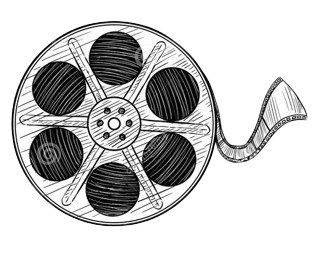
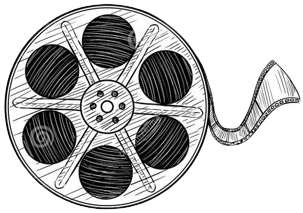
worked on project pages

diff --git a/styles/styles.css b/styles/styles.css
@@ -38,8 +38,63 @@ body {
     display: flex;
     flex-direction: column;
     justify-content: center;
+    
 
     padding-top: 35px;
+}
+
+/* @ SPECIFICS */
+
+.photo {
+    width: 500px;
+}
+
+.cls-1 {
+    fill: #fff;
+    fill-rule: evenodd;
+    width: 300px;
+}
+
+.h1 {
+    display: flex;
+    gap: 15px;
+    align-items: center;
+    justify-content: start;
+
+    width: 100%;
+    text-align: start;
+    /* padding: 15px; */
+    margin-bottom: 30px;
+
+    /* border: solid blue 2px; */
+}
+
+/* h1 {
+    color: var(--navy);
+
+} */
+
+
+
+/* @ FLEX CLASSES */
+
+.flex--row {
+    display: flex;
+    justify-content: center;
+    align-items: center;
+    gap: 15px;
+
+    /* border: solid aqua 2px; */
+    /* width: 100%; */
+
+
+}
+
+.flex--col {
+    display: flex;
+    flex-direction: column;
+    justify-content: start;
+    align-items: center;
 }
 
 /* @ COMPONTENTS */
@@ -91,6 +146,7 @@ body {
 main {
     display: flex;
     justify-content: center;
+    /* width: 100%; */
 
     margin: 50px 0 50px 0;
 
@@ -196,15 +252,74 @@ footer p, footer li {
     gap: 100px;
 }
 
+.projects {
+    width: 50%;
+    gap: 25px;
 
-/* SPECIFICS */
-
-.photo {
-    width: 500px;
+    /* border: solid blue 2px; */
 }
 
-.cls-1 {
-    fill: #fff;
-    fill-rule: evenodd;
-    width: 300px;
+.main--project {
+    /* border: solid 2px var(--light); */
+    padding: 30px;
+}
+
+.graphic {
+    width: 100%;
+    /* padding: 15px; */
+
+    /* border: solid purple 2px; */
+    
+}
+
+.graphic--alt {
+    width: 100%;
+    /* padding: 15px; */
+
+    /* border: solid purple 2px; */
+
+}
+
+
+.subtitle {
+    font-size: 30px;
+    width: 100%;
+    text-align: center;
+
+    /* border: solid green 2px; */
+}
+
+.main--writing {
+    width: 100%;
+
+    /* border: solid aqua 2px; */
+}
+
+.project__header {
+    width: 100%;
+    display: flex;
+    align-items: start;
+    justify-content: center;
+    gap: 50px;
+
+    /* border: teal solid 2px; */
+}
+
+.button {
+    width: 9%;
+    display: flex;
+    justify-content: center;
+
+    padding: 10px;
+    margin: 10px;
+    font-size: 20px;
+
+    border: solid 1px var(--mauve);
+    border-radius: 5px;
+
+    /* border: solid brown 2px; */
+}
+
+.button p {
+    color: var(--mauve);
 }

diff --git a/projects/index.html b/projects/index.html
@@ -1,0 +1,63 @@
+<!DOCTYPE html>
+<html lang="en">
+<head>
+    <meta charset="UTF-8">
+    <meta name="viewport" content="width=device-width, initial-scale=1.0">
+    <title>Document</title>
+    <link rel="stylesheet" href="../styles/styles.css">
+    <script src="https://kit.fontawesome.com/29d5866cff.js" crossorigin="anonymous"></script>
+</head>
+<body>
+    <header class="header">
+
+    </header>
+    <nav class="nav">
+        <ul class="nav__ul">
+            <a href="../"><li class="nav__li"><img src="../img/star.svg" alt="" width="30px"></i>Home</li></a>
+            <a href="../projects/" id="current"><li class="nav__li"><img src="../img/star.svg" alt="" width="30px"></i>Projects</li></a>
+            <a href="../photography/"><li class="nav__li"><img src="../img/star.svg" alt="" width="30px"></i>Photography</li></a>
+            <a href="../about-me/"><li class="nav__li"><img src="../img/star.svg" alt="" width="30px"></i>About Me</li></a>
+        </ul>
+    </nav>
+    <main class="flex--col main--project">
+
+        <div class="group--vertical h1">
+            <img src="../img/star.svg" alt="" width="100px">
+            <h1>Projects</h1>
+        </div>
+
+        <div class="group--vertical flex--row">
+
+            <div class="flex--col projects">
+
+                <a href="../projects/films/">
+                    <img src="../img/graphics/Film Reel.png" alt="" class="graphic--alt">
+                    <p class="subtitle">Films</p>
+                </a>
+                
+            </div>
+
+            <div class="flex--col">
+                <img src="../img/Projects Picture.jpg" class="photo" alt="">
+            </div>
+
+            <div class="flex--col projects">
+
+                <a href="../projects/writing/">
+                    <img src="../img/graphics/Pile of Letters.png" alt="" class="graphic--alt">
+                    <p class="subtitle">Writing</p>
+                </a>
+
+            </div>
+
+        </div>
+
+    </main>
+    <footer class="footer">
+   
+
+        
+
+    </footer>
+</body>
+</html>

diff --git a/projects/writing/index.html b/projects/writing/index.html
@@ -1,0 +1,44 @@
+<!DOCTYPE html>
+<html lang="en">
+<head>
+    <meta charset="UTF-8">
+    <meta name="viewport" content="width=device-width, initial-scale=1.0">
+    <title>Document</title>
+    <link rel="stylesheet" href="../../styles/styles.css">
+    <script src="https://kit.fontawesome.com/29d5866cff.js" crossorigin="anonymous"></script>
+</head>
+<body>
+    <header class="header">
+
+    </header>
+    <nav class="nav">
+        <ul class="nav__ul">
+            <a href="../../"><li class="nav__li"><img src="../../img/star.svg" alt="" width="30px"></i>Home</li></a>
+            <a href="../../projects/"><li class="nav__li"><img src="../../img/star.svg" alt="" width="30px"></i>Projects</li></a>
+            <a href="../../photography/"><li class="nav__li"><img src="../../img/star.svg" alt="" width="30px"></i>Photography</li></a>
+            <a href="../../about-me/"><li class="nav__li"><img src="../../img/star.svg" alt="" width="30px"></i>About Me</li></a>
+        </ul>
+    </nav>
+    <main class="flex--row main--writing">
+
+        <div class="project__header">
+            <a href="../../projects/" class="button"><p>← back</p></a>
+            
+            <div class="h1">
+                <img src="../../img/graphics/eye.png" alt="" width="80px">
+                <h1>Writing</h1>
+            </div>
+        </div>
+        
+        <div class="writing__group"></div>
+     
+
+    </main>
+    <footer class="footer">
+   
+
+        
+
+    </footer>
+</body>
+</html>

diff --git a/projects/films/index.html b/projects/films/index.html
@@ -1,0 +1,44 @@
+<!DOCTYPE html>
+<html lang="en">
+<head>
+    <meta charset="UTF-8">
+    <meta name="viewport" content="width=device-width, initial-scale=1.0">
+    <title>Document</title>
+    <link rel="stylesheet" href="../../styles/styles.css">
+    <script src="https://kit.fontawesome.com/29d5866cff.js" crossorigin="anonymous"></script>
+</head>
+<body>
+    <header class="header">
+
+    </header>
+    <nav class="nav">
+        <ul class="nav__ul">
+            <a href="../../"><li class="nav__li"><img src="../../img/star.svg" alt="" width="30px"></i>Home</li></a>
+            <a href="../../projects/"><li class="nav__li"><img src="../../img/star.svg" alt="" width="30px"></i>Projects</li></a>
+            <a href="../../photography/"><li class="nav__li"><img src="../../img/star.svg" alt="" width="30px"></i>Photography</li></a>
+            <a href="../../about-me/"><li class="nav__li"><img src="../../img/star.svg" alt="" width="30px"></i>About Me</li></a>
+        </ul>
+    </nav>
+    <main class="flex--row main--writing">
+
+        <div class="project__header">
+            <a href="../../projects/" class="button"><p>← back</p></a>
+            
+            <div class="h1">
+                <img src="../../img/graphics/eye.png" alt="" width="80px">
+                <h1>Films</h1>
+            </div>
+        </div>
+        
+        <div class="writing__group"></div>
+     
+
+    </main>
+    <footer class="footer">
+   
+
+        
+
+    </footer>
+</body>
+</html>

diff --git a/index.html b/index.html
@@ -13,10 +13,10 @@
     </header>
     <nav class="nav">
         <ul class="nav__ul">
-            <a href=""><li class="nav__li"><img src="img/star.svg" alt="" width="30px"></i>Home</li></a>
-            <a href=""><li class="nav__li"><img src="img/star.svg" alt="" width="30px"></i>Projects</li></a>
-            <a href=""><li class="nav__li"><img src="img/star.svg" alt="" width="30px"></i>Photography</li></a>
-            <a href=""><li class="nav__li"><img src="img/star.svg" alt="" width="30px"></i>About Me</li></a>
+            <a href="" id="current"><li class="nav__li"><img src="img/star.svg" alt="" width="30px"></i>Home</li></a>
+            <a href="projects/"><li class="nav__li"><img src="img/star.svg" alt="" width="30px"></i>Projects</li></a>
+            <a href="photography/"><li class="nav__li"><img src="img/star.svg" alt="" width="30px"></i>Photography</li></a>
+            <a href="about-me/"><li class="nav__li"><img src="img/star.svg" alt="" width="30px"></i>About Me</li></a>
         </ul>
     </nav>
     <main>
